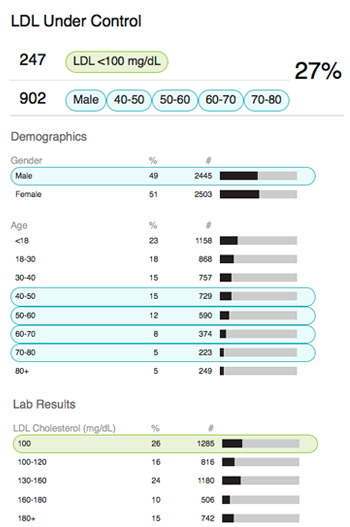
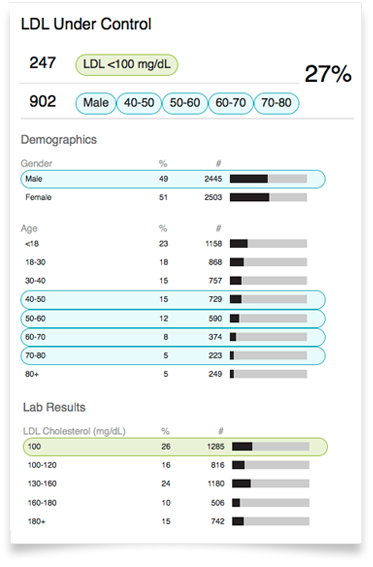
Added download button and minor design tweeks
Former-commit-id: 78416e12b75f8de8d589445168f05e66bd041098

Changed region(s): [[0.0286, 0.0911, 0.9714, 1.0], [0.0286, 0.0304, 0.4286, 0.0607], [0.0571, 0.0911, 0.1429, 0.1214]]

diff --git a/public/public_website/index.html b/public/public_website/index.html
@@ -28,14 +28,13 @@
           <a href="index.html"><img src="images/popHealth_logo_small.png" alt="popHealth Logo" /></a>
         </div>
         <div id='projectHeader'>
-          <h1>A Open Source Population Health Reporting Prototype</h2>
-          <h2>
+          <h1>A Open Source Population Health Reporting Prototype</h1>
 	        <ul> 
-              <li>Promotes easier submission of quality measures to public health organizations</li>
-			  <li>Empowers providers to perform their own population care analysis</li>
-            </ul>
-          </h3>
+            <li>Promotes easier submission of quality measures to public health organizations</li>
+            <li>Empowers providers to perform their own population care analysis</li>
+          </ul>
         </div>
+
 	    <div class="projectDescription"><h2><img src="images/blue_dot.png"/> What is popHealth?</h2></div>
 	    <p>popHealth is a prototype open source tool that automates population health reporting.  popHealth integrates with a provider’s electronic health record (EHR) system to produce summary quality measures on the provider’s patient population and streamlines the reporting of these measures to public health agencies.</p>
 		<div class="milestonesList">
@@ -76,12 +75,18 @@
         </div>
       </div>
       <div id="sidebar">
-        <a href="http://groups.google.com/group/pophealth-talk/subscribe" target="_external"><img src="images/button_announcements.png" alt="Join Announcement List"/></a>
+        <div id='links'>
+          <a href="http://groups.google.com/group/pophealth-talk/subscribe" target="_external"><img src="images/button_announcements.png" alt="Join Announcement List"/></a>
+          <a href="#" target="_external"><img src="images/button_download.png" alt="Download popHealth"/></a>
+        </div>
         <div id="screenshot">
           <a href="images/pophealth_dashboard.png">
 	        <img src="images/ui2.png" alt="popHealth Dashboard Screenshot" class="screenshot"/>
 	      </a>
-          <p class="imageDescription">popHealth <a href="images/pophealth_dashboard.png">Dashboard</a> Report<br/>247 patients with LDL cholesterol<br/>under control out of a population of 902<br/>male patients between the ages of<br/>40 and 80 (or 27%)</p>
+          <p class="imageDescription">
+            <b>popHealth <a href="images/pophealth_dashboard.png">Dashboard</a> Report</b><br/>
+            247 patients with LDL cholesterol under control out of a population of 902 male patients between the ages of 40 and 80 (or 27%)
+          </p>
 	    </div>
       </div>    
       <div id="footer">

diff --git a/public/public_website/stylesheets/main.css b/public/public_website/stylesheets/main.css
@@ -37,7 +37,7 @@ color: #AAAAAA;
 }
 
 #logo {
-    margin: 20px 0 0px 0;
+    margin: 45px 0 0px 0;
     width:100%;
 }
 
@@ -67,7 +67,7 @@ img{
 }
 
 #projectHeader{
-  margin: 0 20px 20px 0;
+  margin: 0 20px 50px 0;
   float: left;
   width: 900px;
   border: 1px solid #e6e6e6;
@@ -77,6 +77,12 @@ img{
 
 #projectHeader h2{
   margin-top: 0;
+}
+
+#projectHeader ul{
+  font-size: 120%;
+  font-weight: bold;
+  padding-left: 15px;
 }
 
 .bumper{
@@ -111,8 +117,9 @@ img{
     font-size: 20px;
 }
 .imageDescription{
-    text-align: center;
+    margin-left: 10px;
     font-size: 14px;
+    margin-top: 0;
 }
 
 .coming_soon{
@@ -172,6 +179,10 @@ fieldset{
     margin: 0 0 25px 30px;
     width:      350px;
     float:      left;
+}
+
+#links{
+  margin-left: 80px;
 }
 
 
